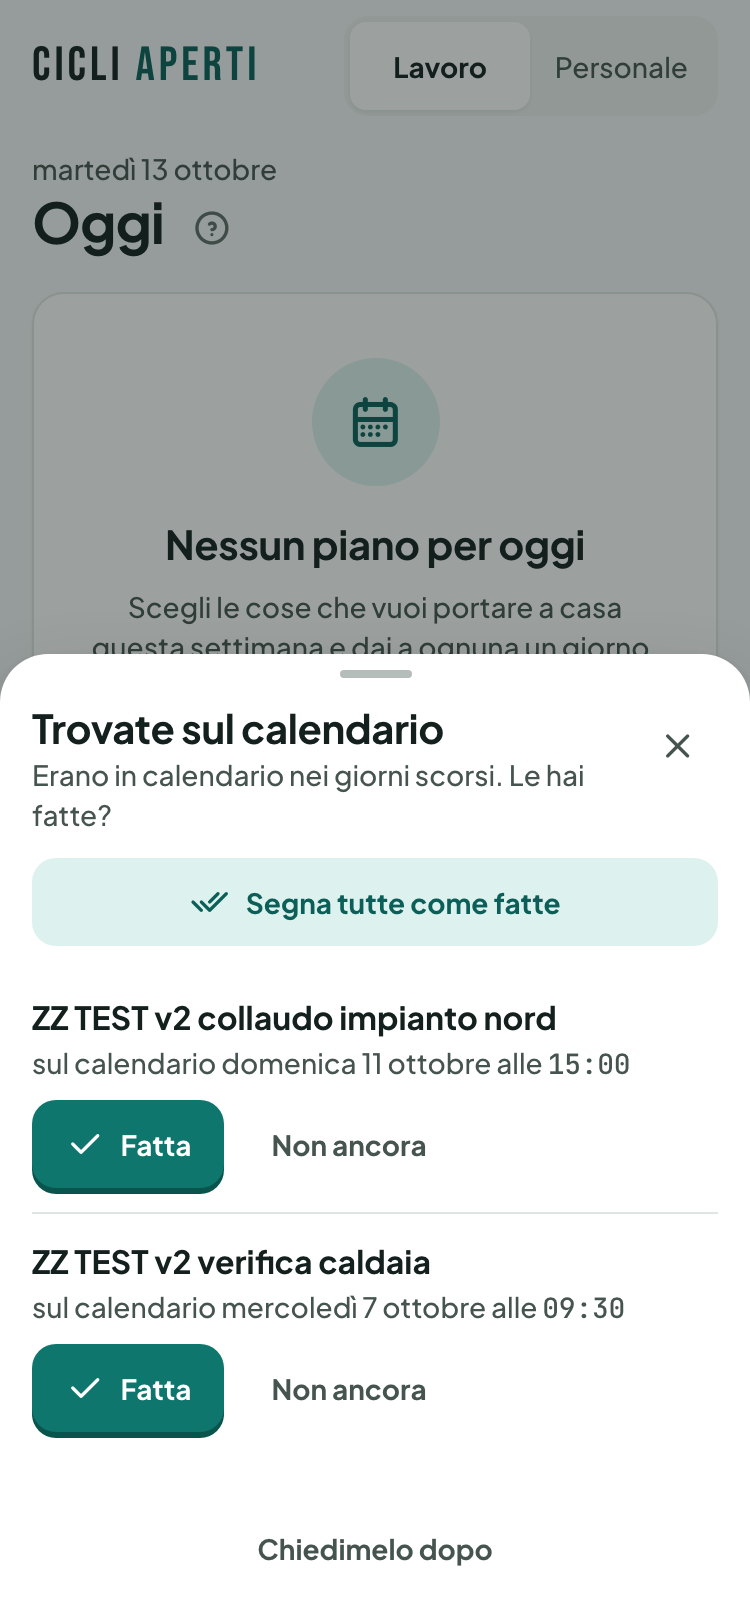
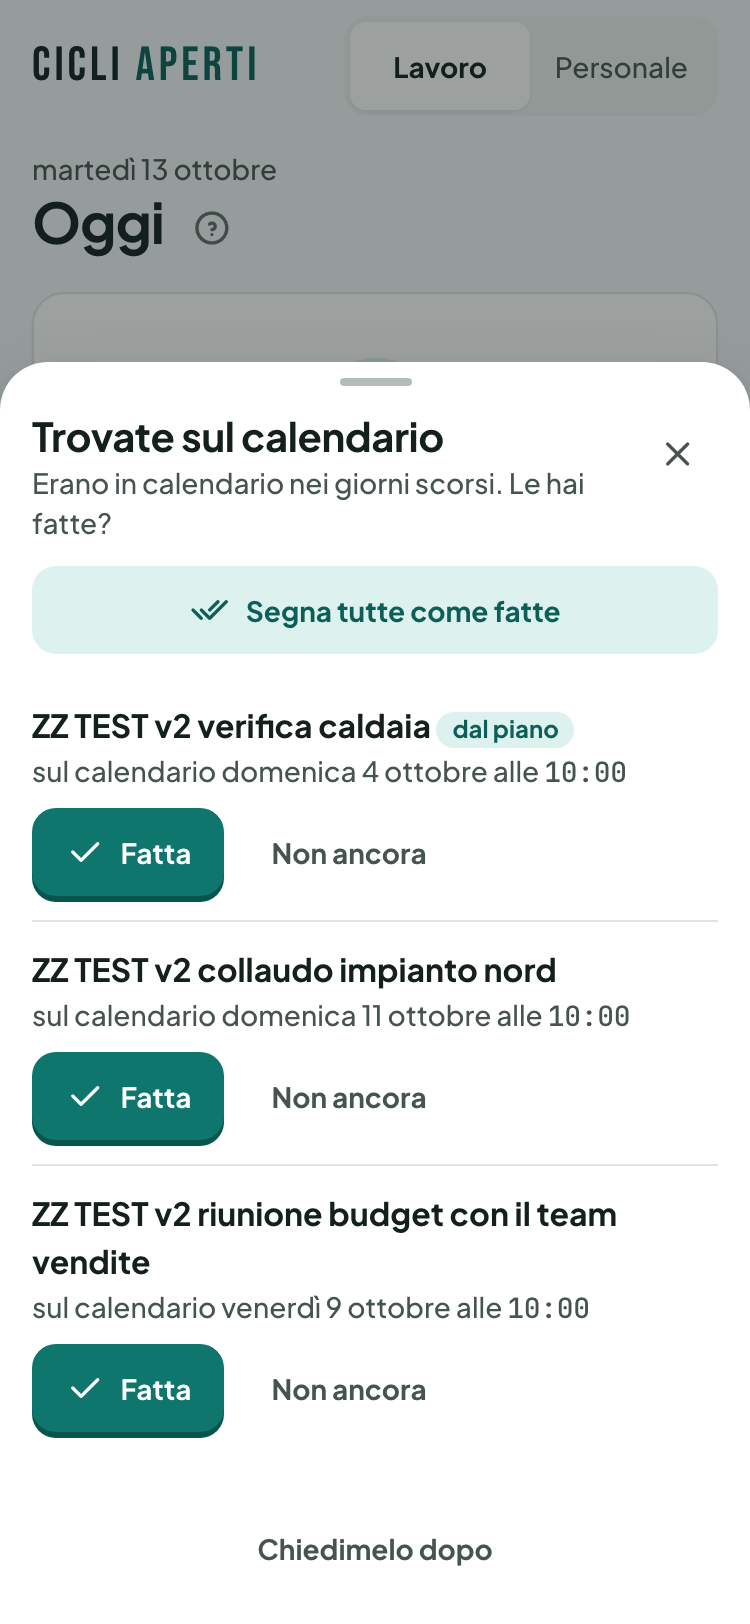
riconciliazione calendar più selettiva

Changed region(s): [[0.0, 0.2155, 1.0, 0.8313], [0.7973, 0.6158, 0.828, 0.6773], [0.8893, 0.431, 0.92, 0.4618]]

diff --git a/index.html b/index.html
@@ -5947,13 +5947,25 @@ function chiudiAiuto() { $('aiutoPop').hidden = true; $('aiutoOverlay').classLis
 // Cose aperte che erano in calendario nei giorni scorsi: si chiede sempre,
 // non si chiude mai niente da soli.
 // ══════════════════════════════════════════════════════════════
-const RECON = { LS_ULTIMA: 'cal_recon_last', LS_IGNORATI: 'cal_recon_ignored', OGNI_MS: 6 * 60 * 60 * 1000, GIORNI: 14, SOGLIA: 0.8, MIN_INCLUSO: 5 };
+const RECON = { LS_ULTIMA: 'cal_recon_last', LS_IGNORATI: 'cal_recon_ignored', OGNI_MS: 6 * 60 * 60 * 1000, GIORNI: 14, SOGLIA: 0.8,
+  INCLUSO_PAROLE: 3, INCLUSO_CARATTERI: 12, MAX_RIGHE: 10, MAX_IGNORATI: 500 };
 ui.recon = [];
 
-function reconIgnorati() { try { return new Set(JSON.parse(localStorage.getItem(RECON.LS_IGNORATI) || '[]')); } catch (e) { return new Set(); } }
-function reconIgnora(eventoId) {
-  const s = reconIgnorati(); s.add(eventoId);
-  localStorage.setItem(RECON.LS_IGNORATI, JSON.stringify([...s].slice(-500)));
+// Esclusioni salvate in locale: { id, t }. `t` (titolo normalizzato) c'è solo per i «Non ancora»:
+// serve a non riproporre lo stesso impegno quando torna con un altro id o un titolo quasi uguale.
+function reconIgnorati() {
+  try {
+    return JSON.parse(localStorage.getItem(RECON.LS_IGNORATI) || '[]').map(x => typeof x === 'string' ? { id: x, t: null } : x).filter(x => x && x.id);
+  } catch (e) { return []; }
+}
+function reconIgnora(eventoId, titolo) {
+  const lista = reconIgnorati().filter(x => x.id !== eventoId);
+  const voce = { id: eventoId, t: titolo ? normTitolo(titolo) : null };
+  localStorage.setItem(RECON.LS_IGNORATI, JSON.stringify([...lista, voce].slice(-RECON.MAX_IGNORATI)));
+}
+function reconEventoIgnorato(e, ignorati) {
+  const t = normTitolo(e.titolo);
+  return ignorati.some(x => x.id === e.id || (x.t && t && (x.t === t || dice(x.t, t) >= RECON.SOGLIA)));
 }
 
 // minuscolo, senza accenti, senza punteggiatura; via i prefissi [Area] e [DONE] messi dalla sincronizzazione
@@ -5971,13 +5983,18 @@ function dice(a, b) {
   A.forEach((n, g) => { comuni += Math.min(n, B.get(g) || 0); });
   return (2 * comuni) / (a.length - 1 + b.length - 1);
 }
-function titoliUguali(a, b) {
-  const x = normTitolo(a), y = normTitolo(b);
-  if (!x || !y) return false;
-  if (x === y) return true;
-  const corto = x.length <= y.length ? x : y, lungo = x.length <= y.length ? y : x;
-  if (corto.length >= RECON.MIN_INCLUSO && lungo.includes(corto)) return true;
-  return dice(x, y) >= RECON.SOGLIA;
+function abbastanzaLungo(t) { return t.length >= RECON.INCLUSO_CARATTERI && t.split(' ').length >= RECON.INCLUSO_PAROLE; }
+// Titolo della cosa e titolo dell'evento parlano della stessa cosa?
+//  - simili: Dice sui bigrammi ≥ 0.8
+//  - oppure uno contiene l'altro, ma solo se il titolo dell'evento ha almeno 3 parole e 12 caratteri
+//    (e lo stesso vale per il pezzo contenuto): «Dentista», «Call», «Riunione» da soli non agganciano mai.
+function titoliUguali(titoloCosa, titoloEvento) {
+  const cosa = normTitolo(titoloCosa), evento = normTitolo(titoloEvento);
+  if (!cosa || !evento) return false;
+  if (cosa === evento || dice(cosa, evento) >= RECON.SOGLIA) return true;
+  if (!abbastanzaLungo(evento)) return false;
+  const corto = cosa.length <= evento.length ? cosa : evento, lungo = corto === cosa ? evento : cosa;
+  return abbastanzaLungo(corto) && (' ' + lungo + ' ').includes(' ' + corto + ' ');
 }
 
 // Eventi degli ultimi 14 giorni fino a ieri: calendario principale + quello di Cicli Aperti.
@@ -6001,18 +6018,22 @@ async function eventiPassatiCalendar() {
   return out;
 }
 
-// Per ogni cosa aperta, l'evento passato più recente che le corrisponde.
+// Per ogni cosa aperta, l'evento passato che le corrisponde.
+// Match certo (id dell'evento salvato sulla cosa): sempre proposto, in cima.
+// Match per titolo: solo su eventi non esclusi, nemmeno per titolo simile.
 function reconAbbina(eventi) {
   const ignorati = reconIgnorati();
-  const validi = eventi.filter(e => !ignorati.has(e.id));
+  const idIgnorati = new Set(ignorati.map(x => x.id));
+  const perTitolo = eventi.filter(e => !reconEventoIgnorato(e, ignorati));
+  const recente = lista => lista.sort((x, y) => y.inizio - x.inizio)[0];
   const out = [];
   state.cicli.filter(c => !c.done && !isGiornaliero(c)).forEach(c => {
-    const trovati = validi.filter(e => (c.calendar_event_id && c.calendar_event_id === e.id) || (c.google_event_id && c.google_event_id === e.id) || titoliUguali(c.title, e.titolo));
-    if (!trovati.length) return;
-    const e = trovati.sort((x, y) => y.inizio - x.inizio)[0];
-    out.push({ id: c.id, eventoId: e.id, inizio: e.inizio, ora: e.ora });
+    const certi = eventi.filter(e => !idIgnorati.has(e.id) && ((c.calendar_event_id && c.calendar_event_id === e.id) || (c.google_event_id && c.google_event_id === e.id)));
+    const e = certi.length ? recente(certi) : recente(perTitolo.filter(ev => titoliUguali(c.title, ev.titolo)));
+    if (!e) return;
+    out.push({ id: c.id, eventoId: e.id, titoloEvento: e.titolo, inizio: e.inizio, ora: e.ora, certo: certi.length > 0, dalPiano: !!c.calendar_event_id && c.calendar_event_id === e.id });
   });
-  return out.sort((x, y) => y.inizio - x.inizio);
+  return out.sort((x, y) => (Number(y.certo) - Number(x.certo)) || (y.inizio - x.inizio));
 }
 
 async function riconciliaCalendar(forza) {
@@ -6020,7 +6041,10 @@ async function riconciliaCalendar(forza) {
   const ultima = parseInt(localStorage.getItem(RECON.LS_ULTIMA) || '0', 10);
   if (!forza && Date.now() - ultima < RECON.OGNI_MS) return;
   localStorage.setItem(RECON.LS_ULTIMA, String(Date.now()));
-  ui.recon = reconAbbina(await eventiPassatiCalendar());
+  const trovate = reconAbbina(await eventiPassatiCalendar());
+  ui.recon = trovate.slice(0, RECON.MAX_RIGHE);
+  // oltre le 10 righe: le altre valgono come «Chiedimelo dopo», tornano alla prossima apertura
+  if (trovate.length > RECON.MAX_RIGHE) localStorage.removeItem(RECON.LS_ULTIMA);
   reconMostra();
 }
 
@@ -6034,7 +6058,7 @@ function reconDisegna() {
   ui.recon = ui.recon.filter(r => { const c = ciclo(r.id); return c && !c.done; });
   if (!ui.recon.length) { $('reconOverlay').classList.remove('open'); return; }
   $('recon-lista').innerHTML = ui.recon.map(r => `<div class="recon-riga">
-      <div><b>${escHtml(ciclo(r.id).title)}</b><p>sul calendario ${fmtGiornoLungo(r.inizio)}${r.ora ? ` alle <span class="mono">${r.ora}</span>` : ''}</p></div>
+      <div><b>${escHtml(ciclo(r.id).title)}</b>${r.dalPiano ? ' <span class="hint-quando t-caption">dal piano</span>' : ''}<p>sul calendario ${fmtGiornoLungo(r.inizio)}${r.ora ? ` alle <span class="mono">${r.ora}</span>` : ''}</p></div>
       <div class="azioni"><button type="button" class="btn btn-primary btn-sm" data-act="recon-fatta" data-id="${r.id}"><i class="ti ti-check"></i>Fatta</button>
         <button type="button" class="btn btn-ghost btn-sm" data-act="recon-no" data-id="${r.id}">Non ancora</button></div></div>`).join('');
   document.querySelector('[data-act="recon-tutte"]').hidden = ui.recon.length < 2;
@@ -6043,13 +6067,13 @@ function reconDisegna() {
 async function reconRisposta(id, fatta) {
   const r = ui.recon.find(x => x.id === id);
   if (!r) return;
-  reconIgnora(r.eventoId);
+  reconIgnora(r.eventoId, fatta ? null : r.titoloEvento);   // «Non ancora»: escluso anche per titoli simili
   ui.recon = ui.recon.filter(x => x.id !== id);
   if (fatta) await azioneFatto(id);
   reconDisegna();
 }
 async function reconTutte() {
-  for (const r of [...ui.recon]) { reconIgnora(r.eventoId); await azioneFatto(r.id); }
+  for (const r of [...ui.recon]) { reconIgnora(r.eventoId, null); await azioneFatto(r.id); }
   ui.recon = [];
   reconDisegna();
   showToast('Segnate tutte come fatte', 'success');

diff --git a/CLAUDE.md b/CLAUDE.md
@@ -52,8 +52,8 @@ Accanto al titolo di Oggi, Pianifica, Tutto, In attesa e Fatte c'è `btnAiuto(k)
 `riconciliaCalendar()` parte all'avvio se Calendar è collegato, al massimo una volta ogni 6 ore (`localStorage cal_recon_last`).
 
 1. `eventiPassatiCalendar()` legge gli eventi degli ultimi 14 giorni fino a ieri (calendario principale + «Cicli Aperti — Battle Plan»).
-2. `reconAbbina()` cerca per ogni cosa aperta un evento: id certo (`calendar_event_id` o `google_event_id`), altrimenti titolo (`normTitolo`: minuscolo, senza accenti e punteggiatura; inclusione da 5 caratteri in su, oppure `dice` sui bigrammi ≥ 0.8).
-3. Se trova qualcosa, in Oggi si apre il foglio «Trovate sul calendario» (`#reconOverlay`): [Fatta] = `azioneFatto` (ricorrenza compresa), [Non ancora] = l'evento finisce in `localStorage cal_recon_ignored` e non viene più chiesto. «Chiedimelo dopo» azzera `cal_recon_last`.
+2. `reconAbbina()` cerca per ogni cosa aperta un evento. Match certo (`calendar_event_id`, etichetta «dal piano», o `google_event_id`): sempre proposto, in cima. Match per titolo (`titoliUguali`, su `normTitolo`): `dice` sui bigrammi ≥ 0.8, oppure inclusione a parole intere solo se il titolo dell'evento (e il pezzo contenuto) ha almeno 3 parole e 12 caratteri. Un evento di una parola non aggancia mai per inclusione. Al massimo 10 righe per foglio: le altre tornano alla prossima apertura.
+3. Se trova qualcosa, in Oggi si apre il foglio «Trovate sul calendario» (`#reconOverlay`): [Fatta] = `azioneFatto` (ricorrenza compresa), [Non ancora] = l'evento finisce in `localStorage cal_recon_ignored` come `{ id, t }` e non viene più chiesto, nemmeno se torna con un titolo simile (`reconEventoIgnorato`). «Chiedimelo dopo» azzera `cal_recon_last`.
 
 Non chiude mai niente da sola. `cicli.calendar_event_id` (migration applicata) viene scritto da `mettiPianoSuCalendar`.
 
